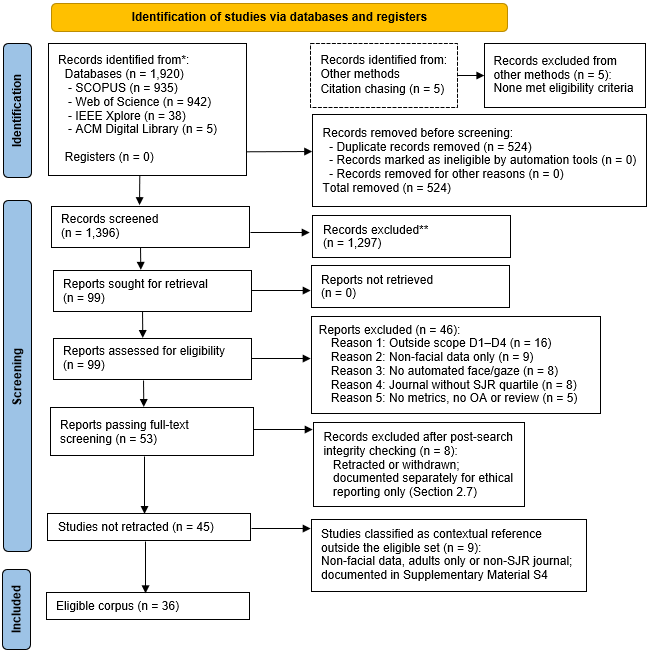
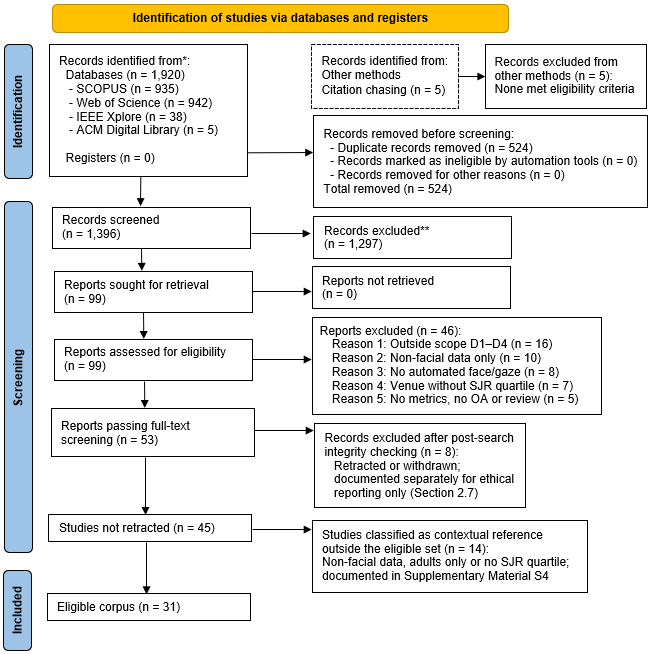
docs: update PRISMA image to 31 studies and record a5a9b6c hash

diff --git a/CHANGELOG.md b/CHANGELOG.md
@@ -184,7 +184,7 @@ N36-01 to N36-06 and the closure plan).
 - `67f2a7b` 2026-11-10 fix: count Voss and Wang metric flags and update metric denominators
 - `32c5913` 2026-11-10 refactor: restore PRISMA template, move pipeline code and rebuild S4 and S5
 - `4521e23` 2026-11-10 fix: correct Shi session count, harmonise S4 settings and update README values
-- `PENDING` 2026-11-10 fix: apply CI(3) to every venue, move five studies to contextual evidence and rename the CV family
+- `a5a9b6c` 2026-11-10 fix: apply CI(3) to every venue, move five studies to contextual evidence and rename the CV family
 
 ---
 
